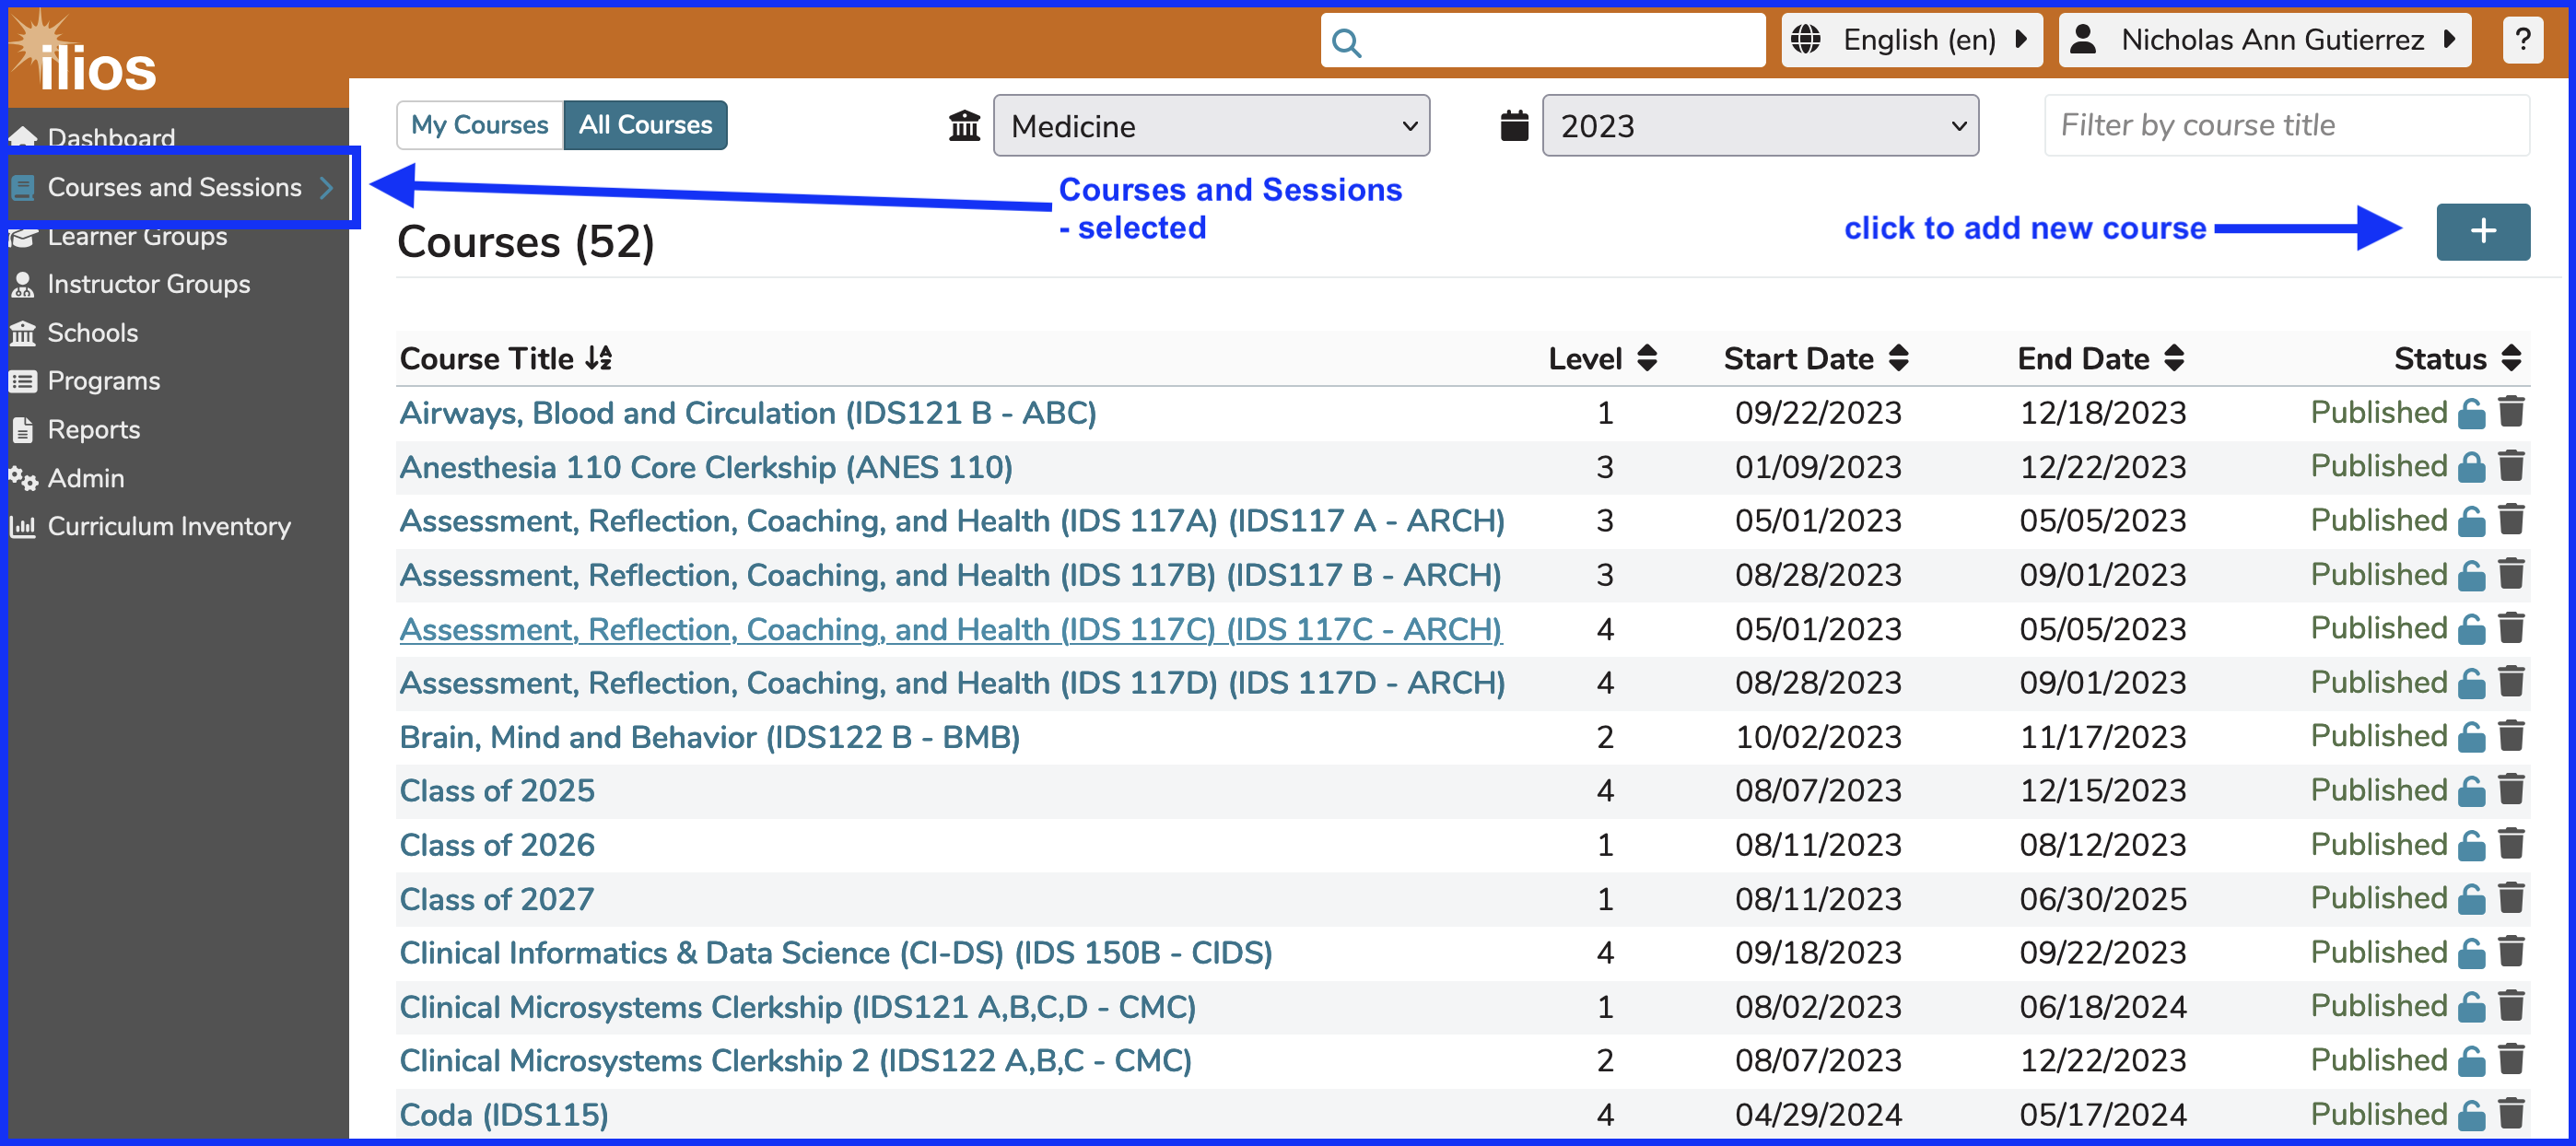
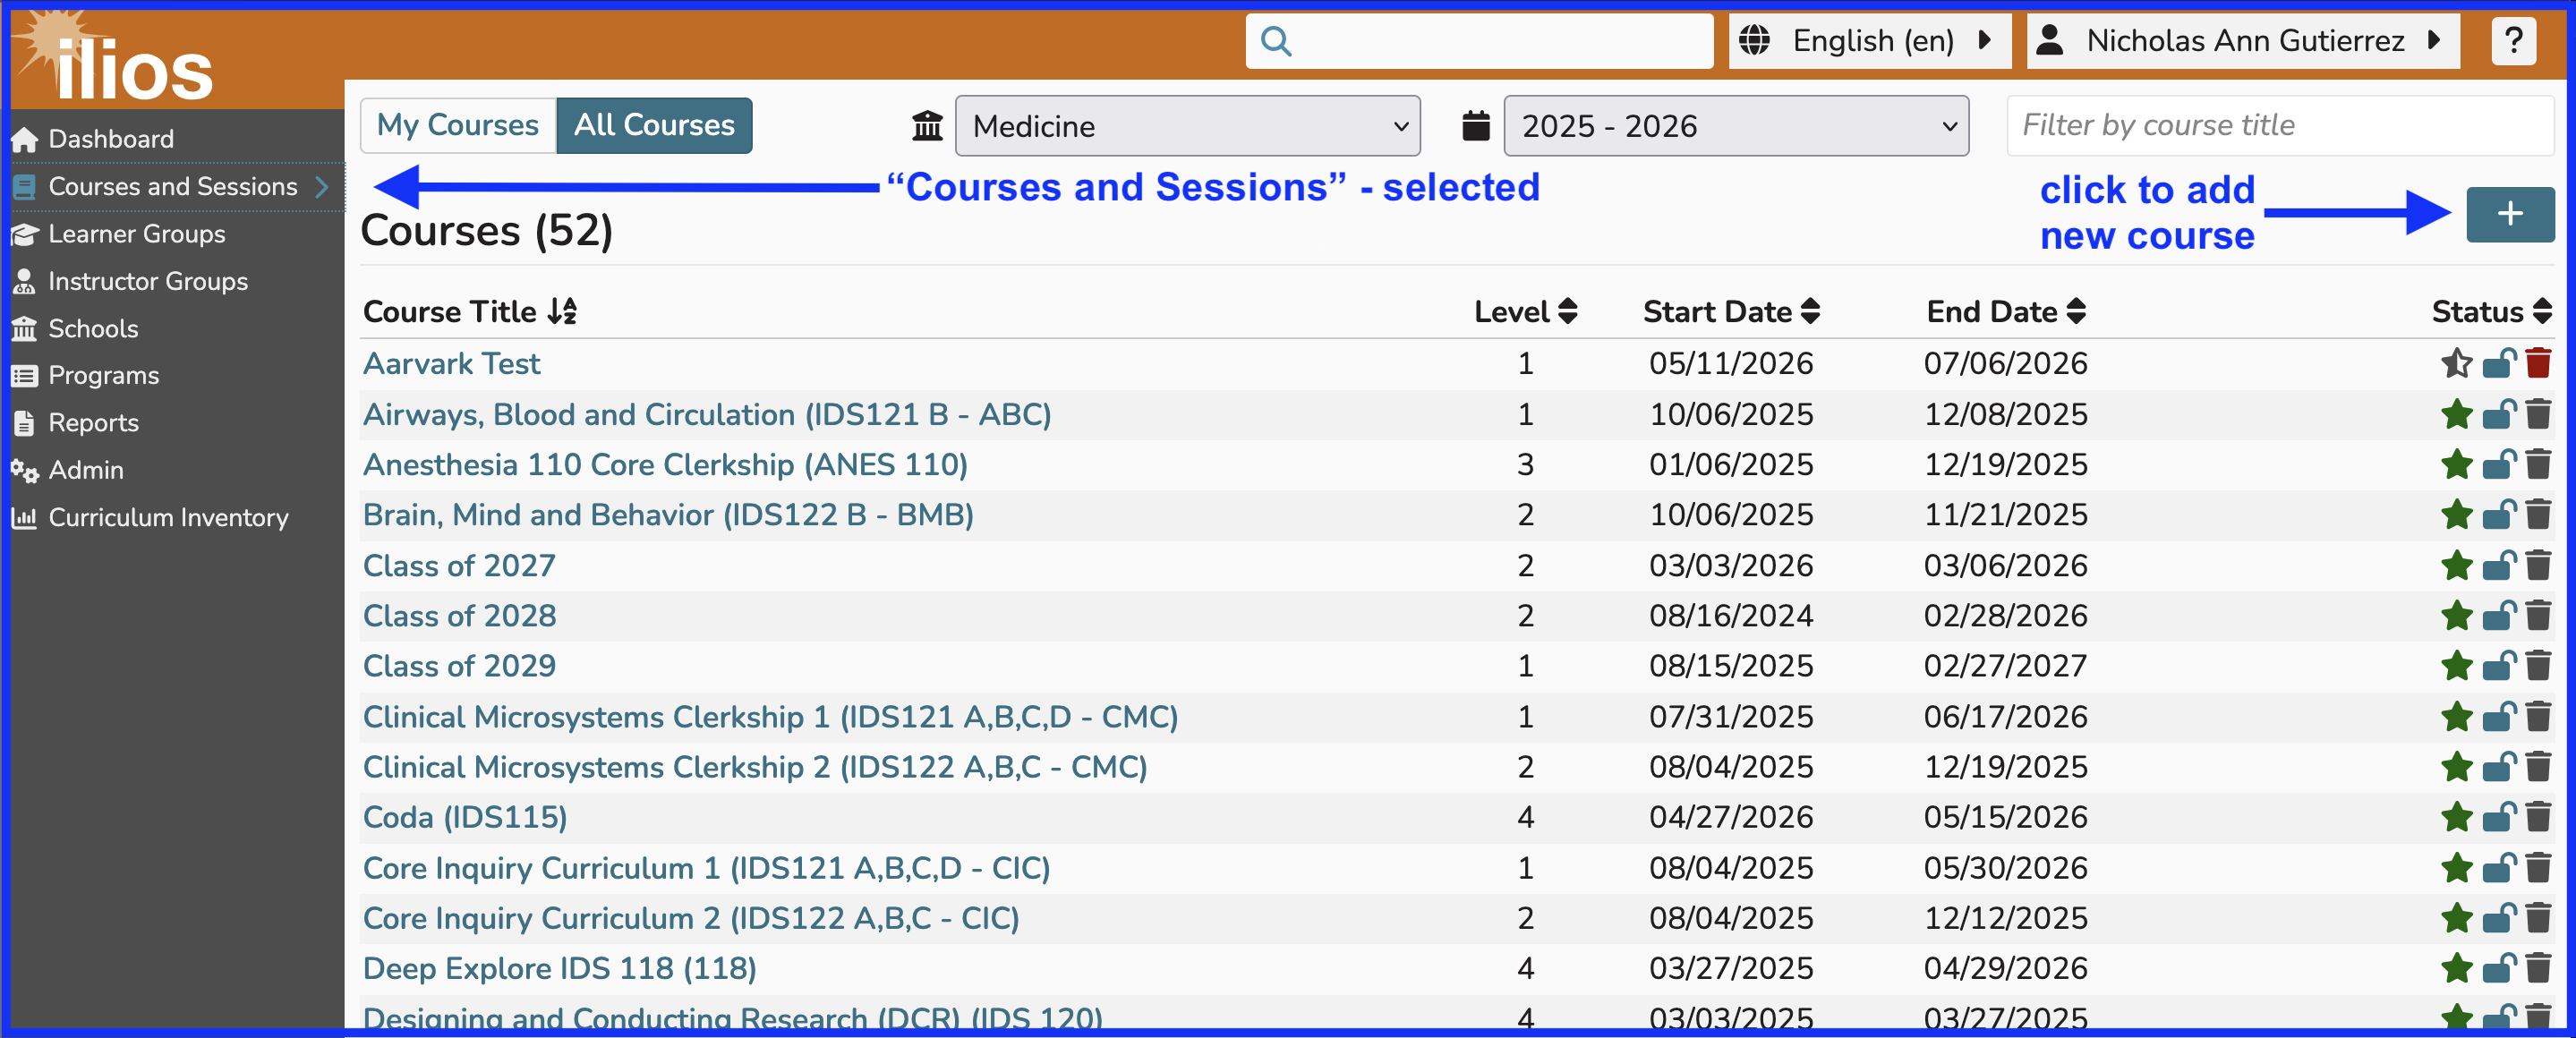
replaced image - updated text accordingly

Changed region(s): [[0.0, 0.0, 1.0, 1.0]]

diff --git a/courses-and-sessions/courses/create-new-course.md b/courses-and-sessions/courses/create-new-course.md
@@ -2,13 +2,11 @@ Courses are unique to the academic year in which they are taught and the school 
 
 The process of adding a new course to Ilios gets initiated from the Course list, which is the initial screen displayed after clicking `Courses and Sessions` from the Ilios flyout menu. This is shown below. 
 
-## Start the Process
-
-![click to start process](../../images/course_images/add_new_course_start.png)
-
-**NOTE:** Just because "2023" is currently selected from the year drop-down does not mean the new course needs to be in the academic year "2023". This can be selected during the course creation process. 
-
 ## Add New Course
+
+![add new course - start](../../images/course_images/add_new_course_start.png)
+
+**NOTE:** Just because "2025-2026" is currently selected from the year drop-down does not mean the new course needs to be in the academic year "2025-2026". This can be selected during the course creation process. 
 
 ![adding new course](../../images/course_images/add_new_course.png)
 